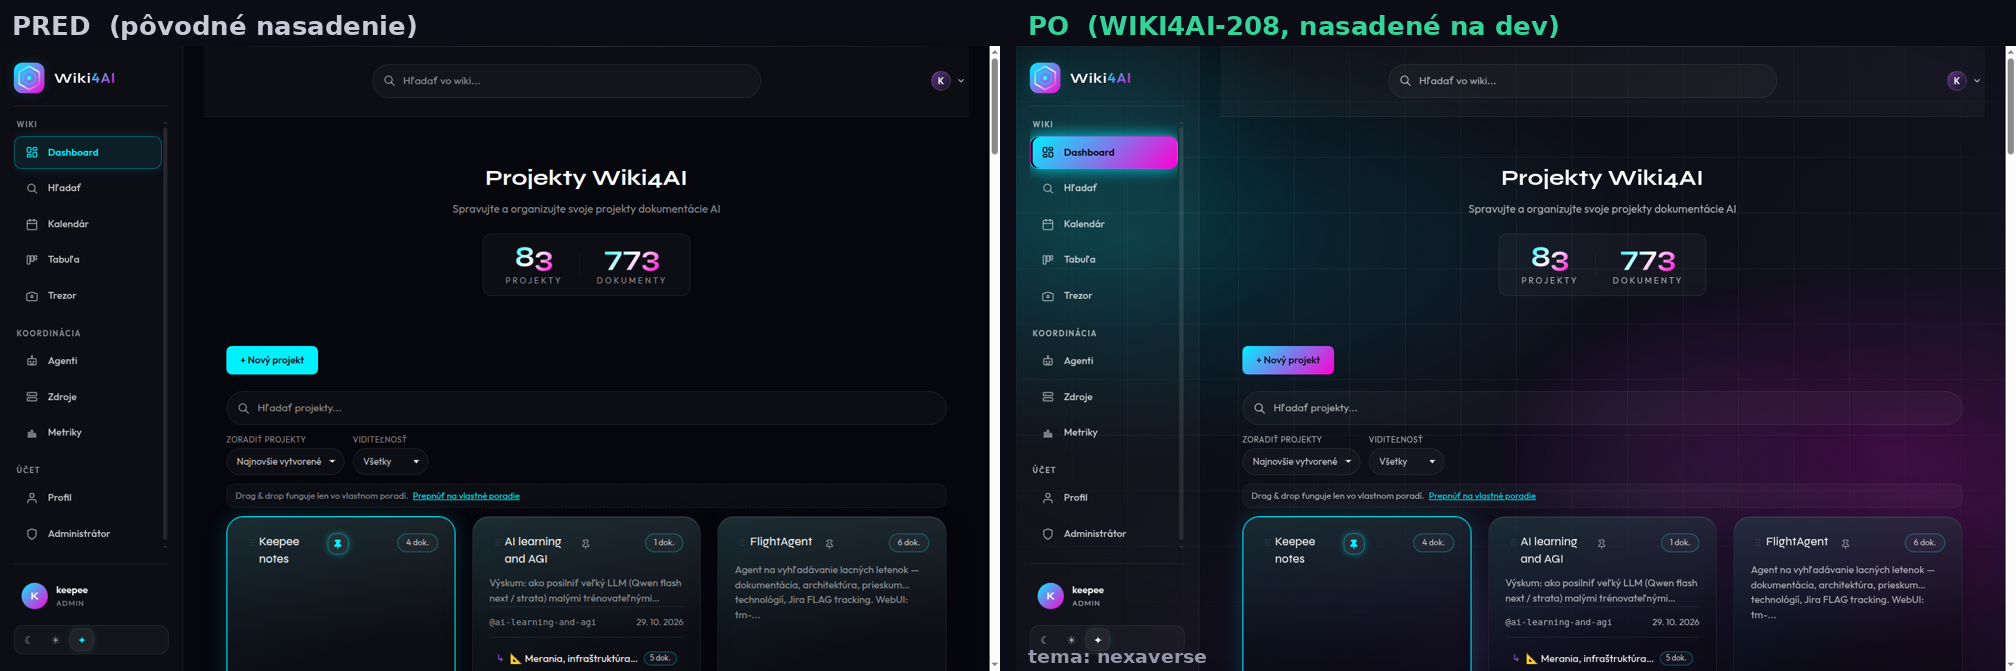
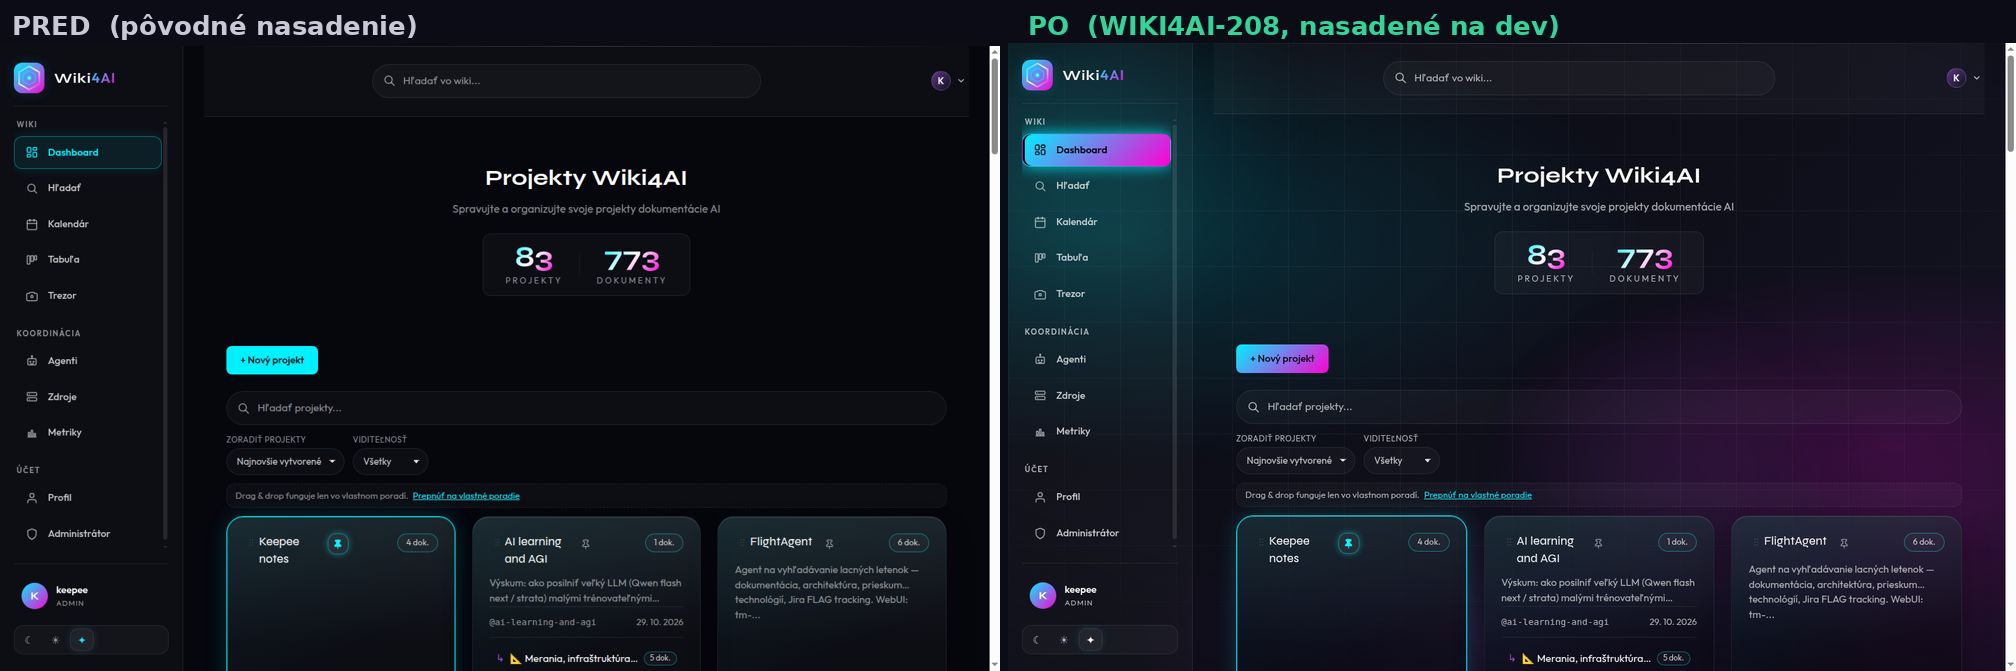
docs: refresh all webUI screenshots and correct stale figures
Screenshots (30 of 32 re-shot from the running WIKI4AI-208 build):
- dashboard, themes, quiet zone, mobile, calendar set, search, editor set,
  privacy set, coordination set (board/agents/resources/metrics)
- theme-compare-*: historical "before" half and both burned-in labels kept,
  only the live "after" half replaced
- admin-users.png: Email column pixelated - the live instance has a real
  third-party address (decima), the old shot had only example.com
- kept as-is: first-run-setup.png (wizard cannot run on an occupied
  instance), revolut-qr.png (static QR, not UI)

README:
- the seed is eleven documents, not nine (01-home .. 11-agent-coordination)
- MCP host port is 8099 (container 8095) - the deployment table said 8095
- CI is four gates in .github/workflows/ci.yml, not three GitLab-only ones
- migrations V27 (embedding queue), V28 (per-user project order),
  V29 (vault crypto v2) were missing from the upgrade notes
- language is switched in the account menu, not on the profile page
- admin-users, profile-language and projects-subprojects were unreferenced
  and are now placed with accurate captions; the dashboard-demo caption
  describes a working instance instead of a fresh one

CHANGELOG: commit count is this repository's (373, not the 496 GitLab had),
colour budget is 89 not 98.

design-system.md: budget 98 -> 89 with the two files that dropped, the
VaultPage cyan tint moved 283 -> 289, and #7ad7ff now survives only in
ResourcesPage.css.

diff --git a/README.md b/README.md
@@ -29,7 +29,7 @@ Everything runs in a single `docker compose up`: a React SPA behind nginx, a Spr
 | **Hybrid search** | Text + semantic search across all projects, fused with Reciprocal Rank Fusion; per-project and global endpoints |
 | **User management** | Two roles — `USER` and `ADMIN` — with admin user creation, role changes and deletion |
 | **First-run setup flow** | A fresh instance shows a setup form instead of login: the first account becomes the admin, and public registration closes automatically afterwards |
-| **i18n** | English (default) and Slovak, switchable per user in the profile |
+| **i18n** | English (default) and Slovak, switchable per user from the user menu in the top bar |
 | **MCP server for AI agents** | 52 tools over stdio or SSE — projects, documents, search, wiki links, images, calendar, a per-user encrypted vault, and the coordination families: work items, inbox, resources, reservations and actors |
 | **Agent coordination board** | A shared `/board` where work items flow through eight states (Backlog, Ready, Claimed, Running, Review, Done, Blocked, Cancelled) with atomic claims, lease TTLs and handoffs between agents — plus a "waiting for you" queue of blockers flagged `needs_human`; auto-refreshes every 10 s |
 | **Agent identity & audit** | Actors with handles and kinds, project roles with enforcement, throttled heartbeat presence, and per-change attribution — every document change carries the signature of who made it, human or agent |
@@ -157,17 +157,27 @@ This starts the complete stack: the frontend (nginx + React SPA), the Spring Boo
 2. **Complete the first-run setup.** On an empty instance the app shows a **First-time setup** form instead of the login page — create your admin account (username ≥ 2 chars, password ≥ 8 chars). Afterwards the setup endpoint closes and public self-registration is disabled by default.
 
    ![First-time setup](docs/screenshots/first-run-setup.png)
-3. **You're in.** Your wiki starts with a complete **"wiki4ai" documentation project seeded automatically** — nine documents covering getting started, architecture, data model, search & embeddings, the WebUI guide, the MCP server and deployment & operations. A fresh install is never an empty shell: read the manual from inside the product.
+3. **You're in.** Your wiki starts with a complete **"wiki4ai" documentation project seeded automatically** — eleven documents covering getting started, the backend API reference, architecture, data model, search & embeddings, the WebUI guide, the MCP server, deployment & operations, the calendar and agent coordination. A fresh install is never an empty shell: read the manual from inside the product.
 
 Add more users any time as admin under **Admin → Users** (role `USER` or `ADMIN`). To keep public self-signup open on your instance, set `AUTH_REGISTRATION_OPEN=true` on the backend service.
+
+![Admin user management — create users, change roles, delete accounts](docs/screenshots/admin-users.png)
+
+Language is a per-user setting in the account menu, not a server-wide switch — one person can read the UI in English while the next reads it in Slovak:
+
+![Language switch in the account menu — English and Slovak](docs/screenshots/profile-language.png)
 
 ![Global hybrid search with semantic results](docs/screenshots/search.png)
 
 ## Fresh instance ships with documentation
 
-A first install is never an empty shell. On first boot the backend seeds a complete **"wiki4ai" documentation project** — nine documents covering getting started, architecture, data model, search & embeddings, the WebUI guide, the MCP server and deployment & operations — so you can read the manual from inside the product before writing your first page. For self-hosted teams that is the difference between "a wiki to fill" and "a wiki that already explains itself".
+A first install is never an empty shell. On first boot the backend seeds a complete **"wiki4ai" documentation project** — eleven documents covering getting started, the backend API reference, architecture, data model, search & embeddings, the WebUI guide, the MCP server, deployment & operations, the calendar and agent coordination — so you can read the manual from inside the product before writing your first page. For self-hosted teams that is the difference between "a wiki to fill" and "a wiki that already explains itself".
 
-![Dashboard of a fresh instance with the seeded documentation project](docs/screenshots/dashboard-demo.png)
+![The dashboard of a working instance — project and document counters, search, sort menu and per-user ordering](docs/screenshots/dashboard-demo.png)
+
+Projects nest up to five levels deep, and the dashboard draws that hierarchy instead of flattening it: a parent card carries its subprojects as indented `↳` rows, each with its own document count and lock badge.
+
+![Dashboard with a parent project card and its subprojects nested underneath](docs/screenshots/projects-subprojects.png)
 
 The small reliability details matter just as much: an unknown address renders a real **Page not found** page instead of a blank screen, `/admin` resolves to the user-management screen, and the API answers with proper `404`/`405`/`403`/`422`/`409` statuses and human-readable messages instead of opaque server errors.
 
@@ -250,7 +260,7 @@ The full stack is six containers on one Docker network; three are required, thre
 | `wiki4ai-db` | `pgvector/pgvector:pg16` | — (internal :5432) | PostgreSQL 16 + pgvector — the single source of truth | Yes |
 | `wiki4ai-backend` | CI-built `backend:<image-tag>` | `8080` | Spring Boot REST API; Flyway migrations on startup; issues JWTs | Yes |
 | `wiki4ai-frontend` | CI-built `frontend:<image-tag>` | `80` (remap freely) | React SPA served by nginx, which also proxies `/api/v1` and `/plantuml/` | Yes |
-| `wiki4ai-mcp` | CI-built `mcp:<image-tag>` | `8095` | MCP server (SSE) exposing the wiki to AI agents | No — WebUI unaffected without it |
+| `wiki4ai-mcp` | CI-built `mcp:<image-tag>` | `8099` (container `8095`) | MCP server (SSE) exposing the wiki to AI agents | No — WebUI unaffected without it |
 | `wiki4ai-embedding` | CI-built `embedding:<image-tag>` | `8030` | Qwen3-Embedding-0.6B int8 ONNX sidecar powering semantic search | No — search becomes text-only |
 | `wiki4ai-kroki` | `yuzutech/kroki` | — (internal :8000) | Stateless PlantUML renderer; reached only via the nginx `/plantuml/` proxy | No — PlantUML blocks show an error card |
 
@@ -265,7 +275,7 @@ Images are built by CI on every push to `main` and tagged with the **git short S
 
 Optional: `EMBEDDING_BASE_URL`, `UPLOAD_DIR` (bind-mount for uploaded images), `MCP_JWT_TOKEN` (gate the MCP endpoint), `ADMIN_INITIAL_USERNAME` / `ADMIN_INITIAL_PASSWORD` (non-interactive admin bootstrap, honored only while no account exists), `AUTH_REGISTRATION_OPEN` (keep public self-signup open).
 
-**Upgrades.** Pull the new image tag and re-run `docker compose up -d`. Database migrations are applied automatically by Flyway *before* the backend starts accepting traffic — you never run them by hand. The agent coordination layer ships as migrations V15–V25, adding seven tables (actors, project actors, work items, work item events, work item comments, resources, reservations) on top of the existing schema. V26 is purely additive: `pinned` + `sort_order` on `projects` and `documents` (both `NOT NULL` with a constant default, so existing rows need no rewrite), plus a deterministic backfill that reproduces the ordering each list already showed. Note that Flyway migrations are forward-only: rolling back an image does not roll back the schema, so take a backup before upgrading.
+**Upgrades.** Pull the new image tag and re-run `docker compose up -d`. Database migrations are applied automatically by Flyway *before* the backend starts accepting traffic — you never run them by hand. The agent coordination layer ships as migrations V15–V25, adding seven tables (actors, project actors, work items, work item events, work item comments, resources, reservations) on top of the existing schema. V26 is purely additive: `pinned` + `sort_order` on `projects` and `documents` (both `NOT NULL` with a constant default, so existing rows need no rewrite), plus a deterministic backfill that reproduces the ordering each list already showed. V27 adds the embedding job queue, V28 the per-user project-ordering table, and V29 the vault crypto-v2 columns — it also relaxes two `NOT NULL` constraints so v1 and v2 ciphertext can coexist until an entry is re-saved. None of the three rewrites or drops existing data. Note that Flyway migrations are forward-only: rolling back an image does not roll back the schema, so take a backup before upgrading.
 
 **Backups.** Everything lives in one PostgreSQL volume (`pgdata`) plus the `UPLOAD_DIR` bind mount for images. The repo ships `scripts/wiki4ai-db-backup.sh` and `scripts/wiki4ai-db-restore.sh` (pg_dump-based).
 
@@ -276,7 +286,7 @@ The full operational reference — configuration table, JWT rotation, registrati
 ```
 wiki4ai/
 ├── backend/     # Spring Boot 3 (Java 17+) — REST API at /api/v1, Flyway, OpenAPI/Swagger UI
-│   └── src/main/resources/seed/   # first-run documentation seed (9 docs + images)
+│   └── src/main/resources/seed/   # first-run documentation seed (11 docs + images)
 ├── frontend/    # React 18 + TypeScript + Vite SPA (Monaco editor, Tailwind)
 ├── mcp-server/  # Python 3.12 + FastMCP — 52 tools, stdio or SSE transport
 ├── embedding/   # Qwen3-Embedding-0.6B int8 ONNX sidecar (port 8030)
@@ -285,9 +295,9 @@ wiki4ai/
 └── scripts/                    # db backup/restore helpers, pipeline helpers
 ```
 
-**CI.** This project is developed with a GitLab CI pipeline (test → build & push → deploy) that is intentionally not part of this public repository — the three test commands below are the same gates it runs.
+**CI.** The public repository ships a GitHub Actions workflow (`.github/workflows/ci.yml`) that runs the four test gates below on every push to `main` and on pull requests — `backend (mvn test)`, `frontend (vitest)`, `mcp-server (pytest)` and `embedding (pytest)`. The image build/push and deploy stages live in the project's GitLab pipeline, which is not part of this public repository.
 
-**Run the tests** (the same three gates CI runs):
+**Run the tests** (the same four gates CI runs):
 
 ```bash
 # Backend — JUnit via Maven
@@ -298,6 +308,9 @@ cd frontend && npm ci && npx tsc --noEmit -p tsconfig.app.json && npm run test:r
 
 # MCP server — pytest
 cd mcp-server && pip install -r requirements.txt pytest && python -m pytest tests/ -q
+
+# Embedding sidecar — pytest (FastAPI TestClient)
+cd embedding && pip install -r requirements.txt pytest httpx && python -m pytest tests/ -q
 ```
 
 **Local development without Docker:**

diff --git a/docs/design-system.md b/docs/design-system.md
@@ -172,9 +172,14 @@ Sľub „všetky farby len v `tokens.css`“ je implementovaný ako **ratchet**:
 `HARD_COLOR_BUDGET` v `designTokens.test.ts` má per-súbor maximum výskytov.
 Nový súbor musí mať 0, migrácia smie hodnotu **len znižovať**.
 
-**Nameraný stav (WIKI4AI-199, 2026-11-09): 98 farebných hodnôt mimo
-`tokens.css` v 27 súboroch** — a súčet budgetu je presne 98, teda ratchet je
-v tesnej zhode so skutočnosťou (žiadny voľný priestor na regresiu). Rozpad:
+**Budget po WIKI4AI-208: 89 farebných hodnôt mimo `tokens.css` v 27 súboroch**
+— a súčet budgetu je presne 89, teda ratchet je v tesnej zhode so
+skutočnosťou (žiadny voľný priestor na regresiu). Oproti meraniu WIKI4AI-199
+(2026-11-09), ktoré malo 98 hodnôt, klesli `pages/MetricsPage.css` 4 → 3
+(`#7ad7ff` na dátovom povrchu nahradený `--chart-7`) a
+`components/Toast.css` 8 → 0 (tien ide cez `--glass-shadow`, stavy cez
+`--color-*-border` + `--{ok,error,info}-glow`, teda bez jediného nového čísla).
+Rozpad merania WIKI4AI-199:
 **64 chromatických** `rgba()` (nesú odtieň, takže neprejdú identitou),
 **29 neutrálnych** alfa `rgba(0,0,0,x)` / `rgba(255,255,255,x)` (tiene,
 scrimy), **4 hex** literály (`#7ad7ff` 2× v gradientoch, `#0000` 2× v
@@ -263,14 +268,14 @@ končil na `#c2603f` s pomerom 3.33:1 (1.4.3 failure).
 
 ## 9. Známe slabé miesta systému (otvorené k WIKI4AI-199)
 
-1. **98 tvrdých farieb mimo tokenov** — z toho 64 chromatických. Chromatické
+1. **89 tvrdých farieb mimo tokenov** (pri meraní WIKI4AI-199 ich bolo 98) —
+   z toho 64 chromatických. Chromatické
    literály sa **neprekreslia** pri zmene identity. Konkrétne:
    `rgba(52, 211, 153, 0.6)` (emerald glass-dark accent) je natvrdo v
    `pages/BoardPage.css:254` a `pages/WorkItemDetailPage.css:492`;
    `rgba(0, 229, 255, 0.3)` (nexaverse cyan) v
    `components/DocumentLinks.css:94`; `rgba(0, 200, 220, 0.15)` v
-   `pages/VaultPage.css:283`; `#7ad7ff` v `pages/MetricsPage.css:157` a
-   `pages/ResourcesPage.css:135`. V glass identitách tieto prvky svietia
+   `pages/VaultPage.css:289`; `#7ad7ff` v `pages/ResourcesPage.css:135`. V glass identitách tieto prvky svietia
    nexaverse farbou a naopak.
 2. **Sémantické stavové farby sú natvrdo per stránka** — Tailwind paleta
    (`rgba(239,68,68)` red-500, `rgba(245,158,11)` amber-500,

diff --git a/CHANGELOG.md b/CHANGELOG.md
@@ -2,7 +2,7 @@
 
 All notable changes to Wiki4AI are documented here. The format follows Keep a Changelog and this project uses Semantic Versioning.
 
-The entries below are derived from the commit history (496 commits since 2026-05-16), grouped by release phase.
+The entries below are derived from the commit history (373 commits in this repository since 2026-05-16), grouped by release phase.
 
 
 ## November 2026
@@ -47,7 +47,7 @@ Two campaigns landed since October. A hardening sweep closed the security and co
 
 ### Changed
 
-- Colours live **only** in `frontend/src/styles/tokens.css`; a guard test caps hard-coded colour values at 98 across 27 files and fails the build when the budget grows undocumented.
+- Colours live **only** in `frontend/src/styles/tokens.css`; a guard test caps hard-coded colour values at 89 across 27 files and fails the build when the budget grows undocumented.
 - The default theme is `glass-dark`. Saved preferences for `dark` and `light` map onto the new identities instead of breaking.
 - Compose publishes only the two ports that need publishing, and `ddl-auto` is no longer overridden with `update` — Flyway owns the schema (`WIKI4AI-197`).
 
